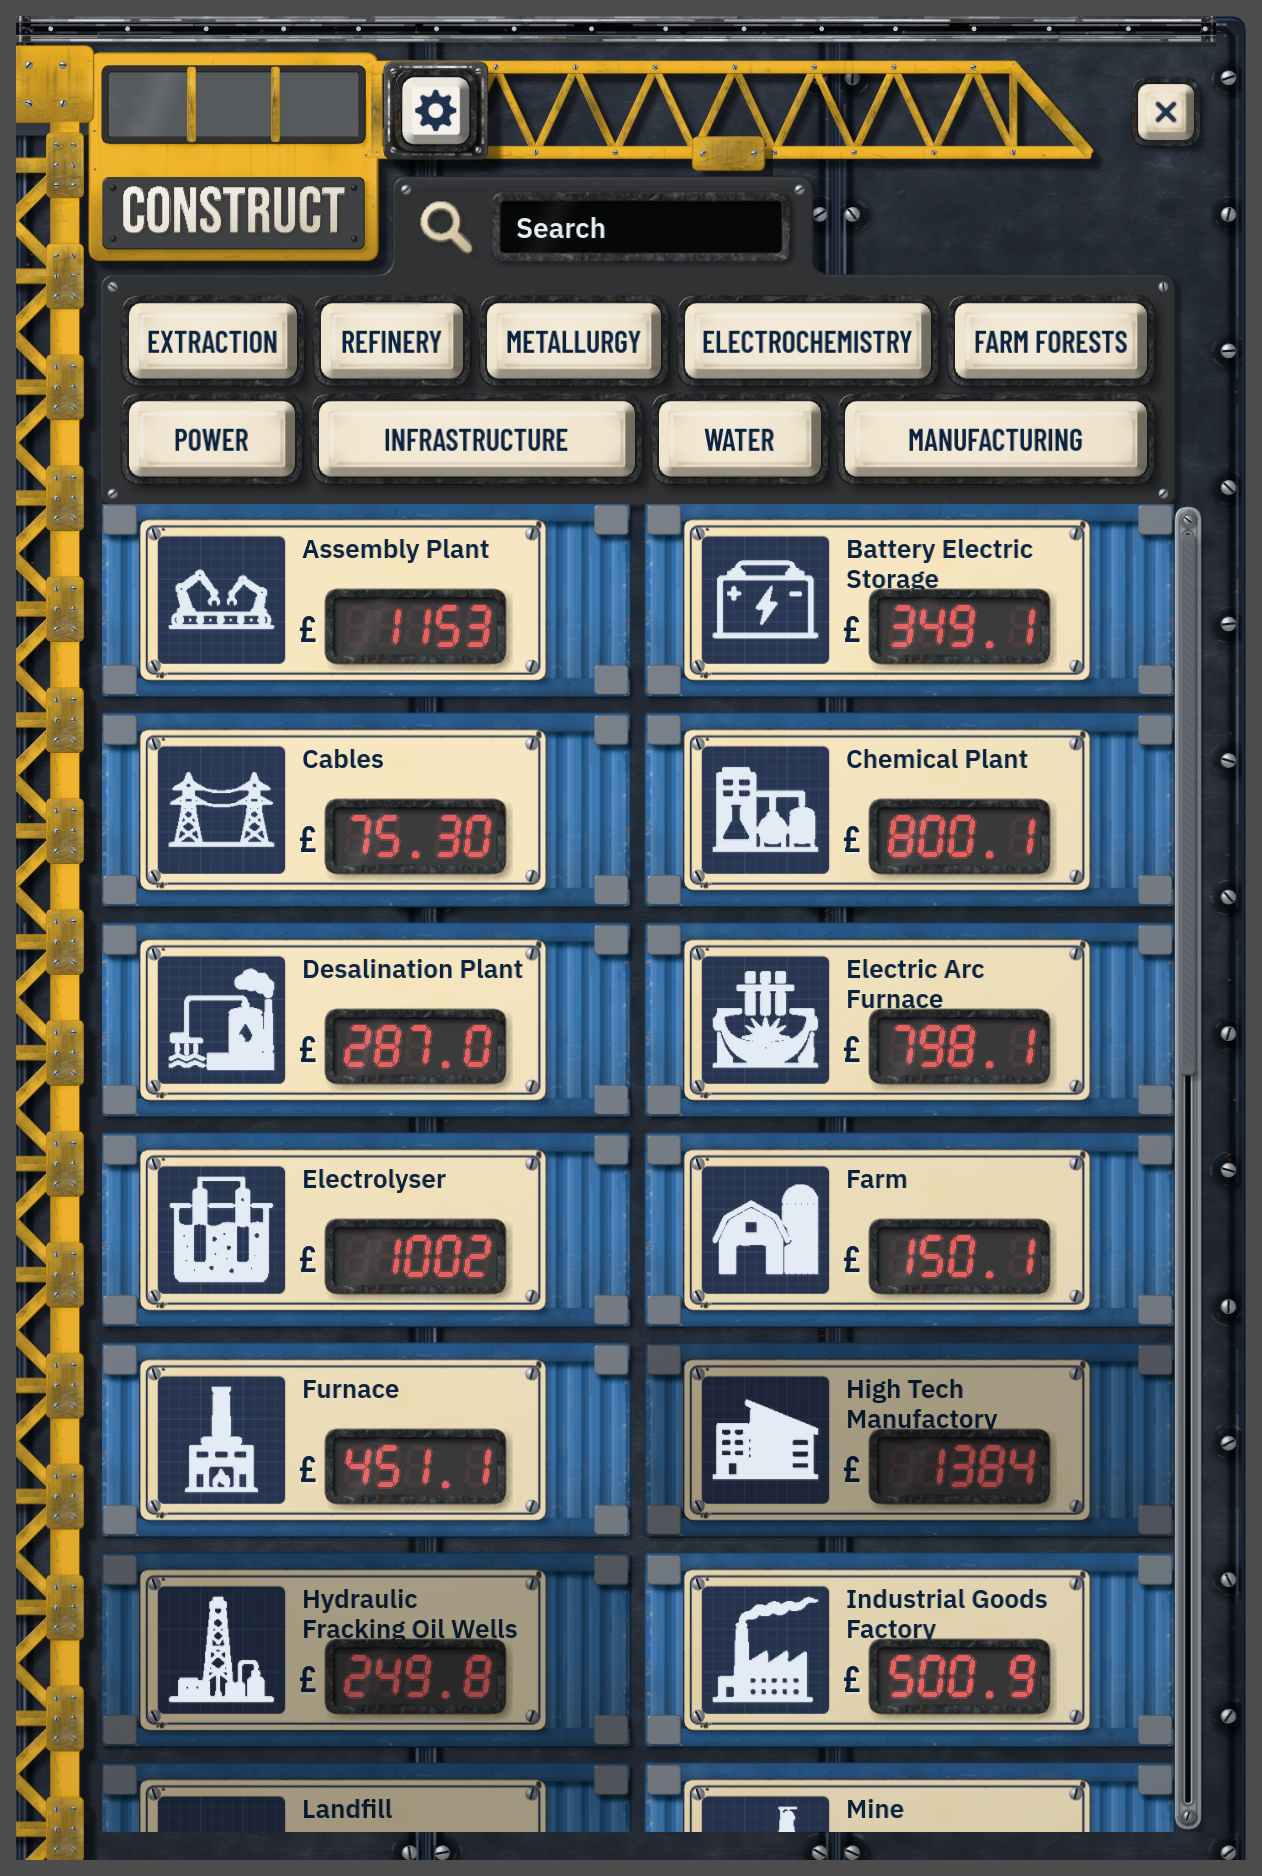
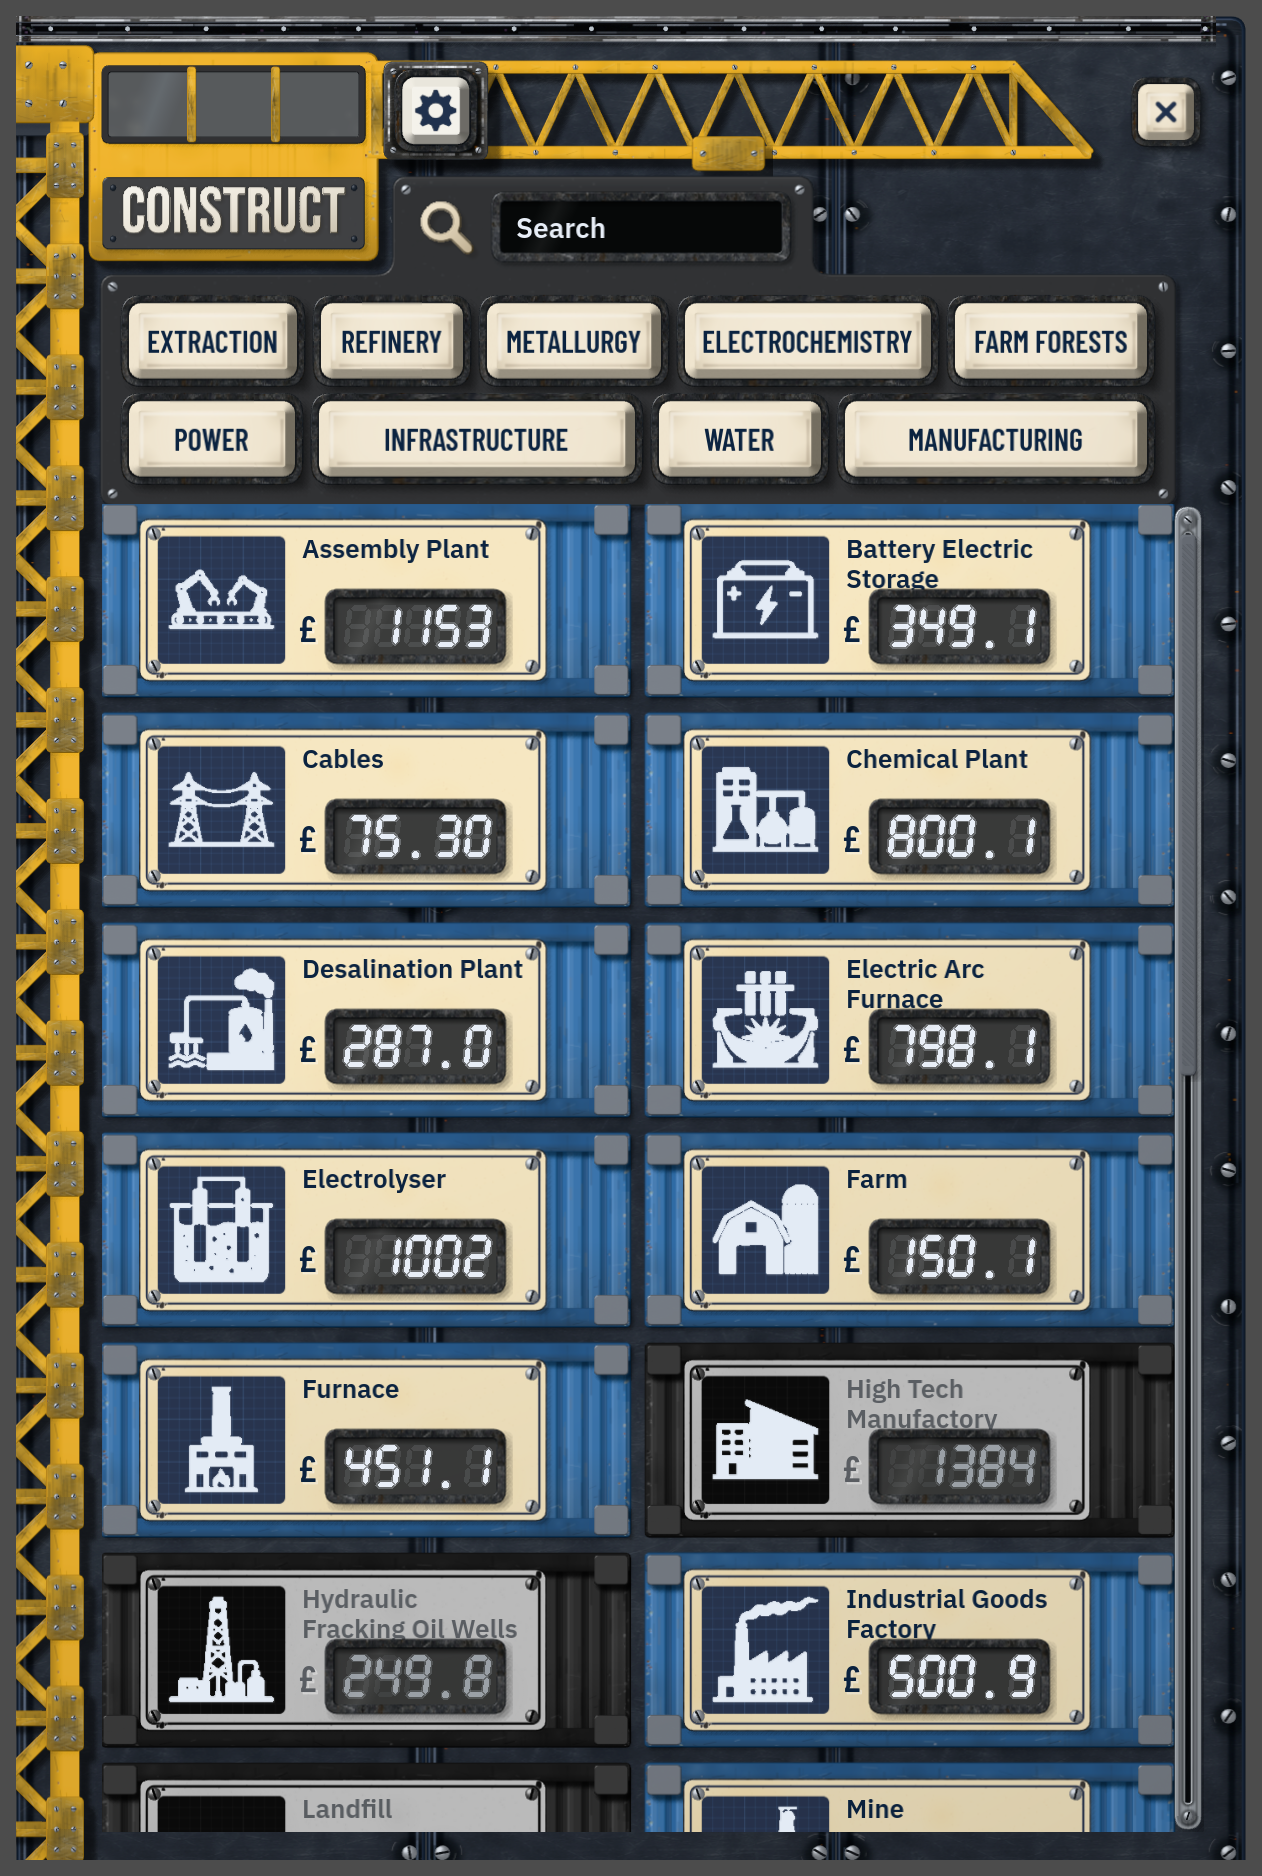
Construct panel DS2: grey for what you can't build, white for what you can well afford
The owner: a catalogue card whose building can't be built there or can't
be paid for is grey, its container and plate through a grey shader, its
words and price in grey, the reason on its hover. A price is white while
the cash covers it twice over and red below; the build order's Total
follows the same rule.

diff --git a/price-of-everything-0.1/docs/ds2-owner-decisions.md b/price-of-everything-0.1/docs/ds2-owner-decisions.md
@@ -70,7 +70,7 @@ The rulings the owner made while the top bar, the updates dock and the tile view
 - **Names**: the building by what it makes, without its letter until built: "Iron Furnace", "Copper Furnace"; where several recipes make the same thing, the recipe tells them apart: "Motor Assembly Plant", "SynRM Motor Assembly Plant".
 - **The Build key** (27 September) stays high in the verdict, where it is quick to decide, but as a plain cream key, not the guarded cap: building is not that big a decision. Its rim is polished brass, not the black metal bezel. Refused, it prints red, and a press makes the part that blocks glow instead of building: the money (Cash after), or the land's row when auto buy land is off (the row then offers Buy land), or the requirement that blocks.
 - **Recipe diagrams** (27 September): a single row never draws goods under 48 px; three or more goods on a side go into two rows (the short row centred), a side of one or two beside them drawn larger. The recipe's name sits outside the diagram: on a catalogue tag in a tab rising between its chains, 15 px in from each.
-- **The catalogue's building card** (27 September) is a blue shipping container with a plate on its left end for the icon, the name and the price, the price level with the foot of the icon. A recipe's diagram glows while hovered. The construction lot is the default construct panel.
+- **The catalogue's building card** (27 September) is a blue shipping container with a plate on its left end for the icon, the name and the price, the price level with the foot of the icon. A recipe's diagram glows while hovered. The construction lot is the default construct panel. A card that can't be built there or paid for is grey; a price is white while the cash covers it twice over, red below (the build order's Total too).
 - **The settings key** (27 September) is a white plastic key with a bevel and a navy gear, on a plate on the crane (over the jib's root, beside the cab).
 - **Every name in `docs/building-names.md` is approved as the table proposed it**, including the 19 rows that were marked for a second look (Limestone Mine, Sand Mine, Hairpin Stator Motor Assembly Plant and the rest). Only the unloaded farm recipes remain open.
 - **Building icons**: the polished relief with its soft grey edge looked wrong; a simple emboss or flat print (a blueprint) is being compared.

diff --git a/price-of-everything-0.1/docs/construct-ds2-plan.md b/price-of-everything-0.1/docs/construct-ds2-plan.md
@@ -122,6 +122,7 @@ Each body is reviewed against §2's scenarios, up to three rounds, as the tile v
 - **A recipe's name sits outside its diagram** (owner): on a tag, in a tab rising from its top edge between the chains, 15 px in from each, so the whole body is the diagram's; on the build order, raised on the site board above the enamel sign.
 - **The building card is a shipping container** (owner, 27 September): blue painted corrugated steel between darker rails, a corner casting at each corner (`construct_container`, cropped to the card's width, never stretched), with the enamel plate bolted to its left end holding the blueprint icon, the name and the price (`construct_card_plate`); the price's foot level with the foot of the icon's tile. Set constructbox, 469.
 - **A recipe tag glows while hovered**: the amber lamp glow added over its diagram (`catalogue.HoverGlow`).
+- **Cards by what you can do** (owner, 27 September): a card whose building can't be built there or can't be paid for is grey (`grey.gdshader` over its container and plate, its words and price grey), the reason on its hover; a price is white while the cash covers it twice over (`catalogue.price_colour`, `COMFORT`), red below, and the build order's Total follows the same rule.
 - **Settings on the crane** (owner, 27 September): a steel plate bolted over the jib's root beside the cab, a white plastic key with a chamfered bevel and a navy gear (`construct_settings`, `_pressed`); it opens the settings and, pressed again, comes back.
 - **Captures:** `tools/construct_ds2_shot.tscn`: the catalogue (whole, the Furnace opened condensed and expanded, Metallurgy picked, the goods filter), the settings, the build order on Stoneshore at its top, middle and foot, the build order with no site. Step one in `artifacts/construct_ds2/ds2_v1/`, with the catalogue in `ds2_v2/`.
 - **Tests:** `tests/unit/test_construct_ds2.gd`.
